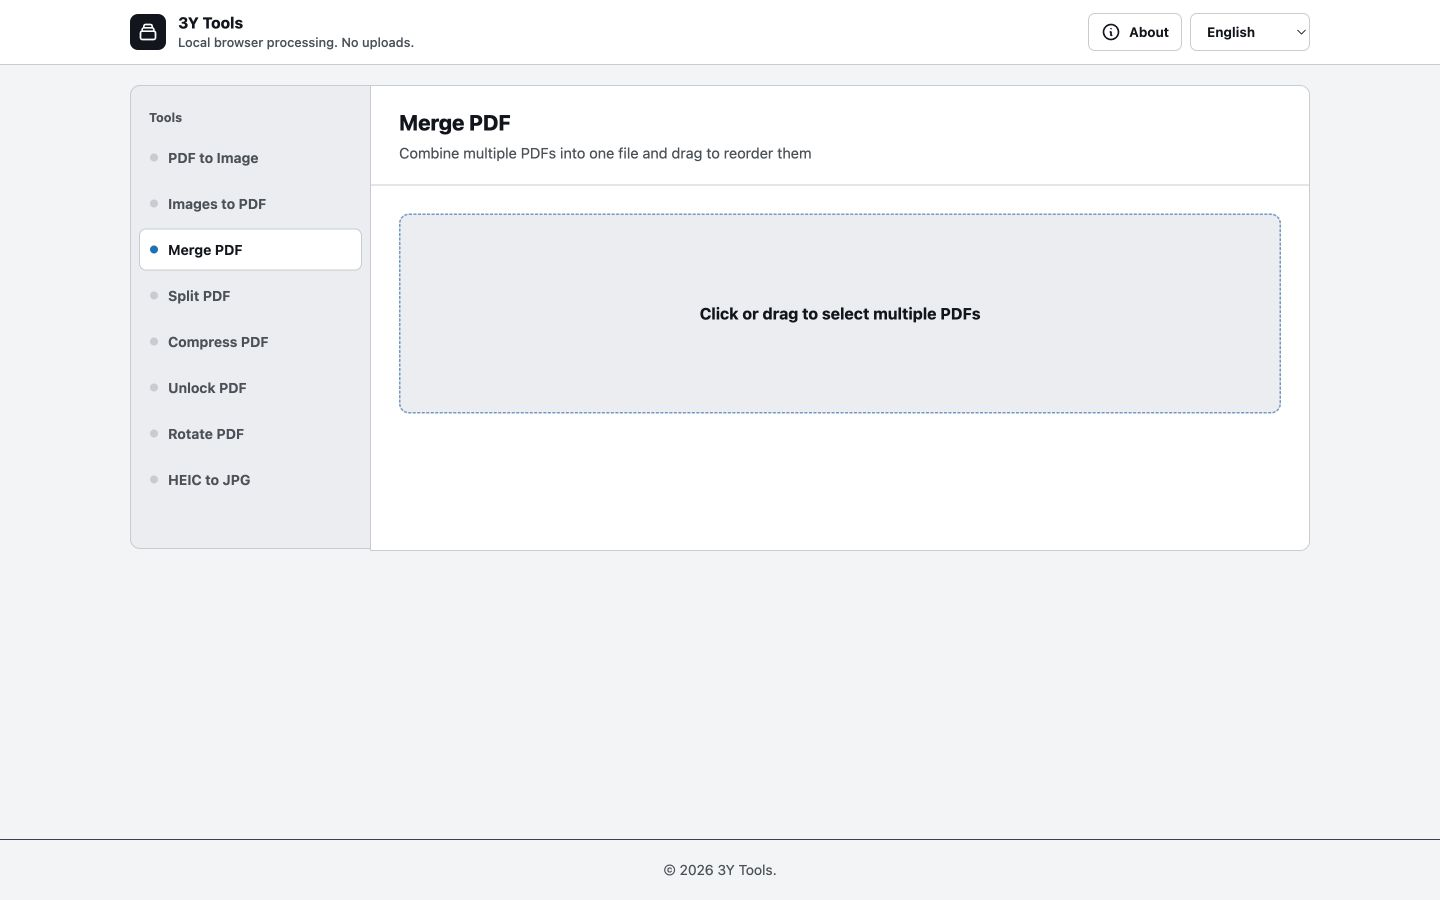
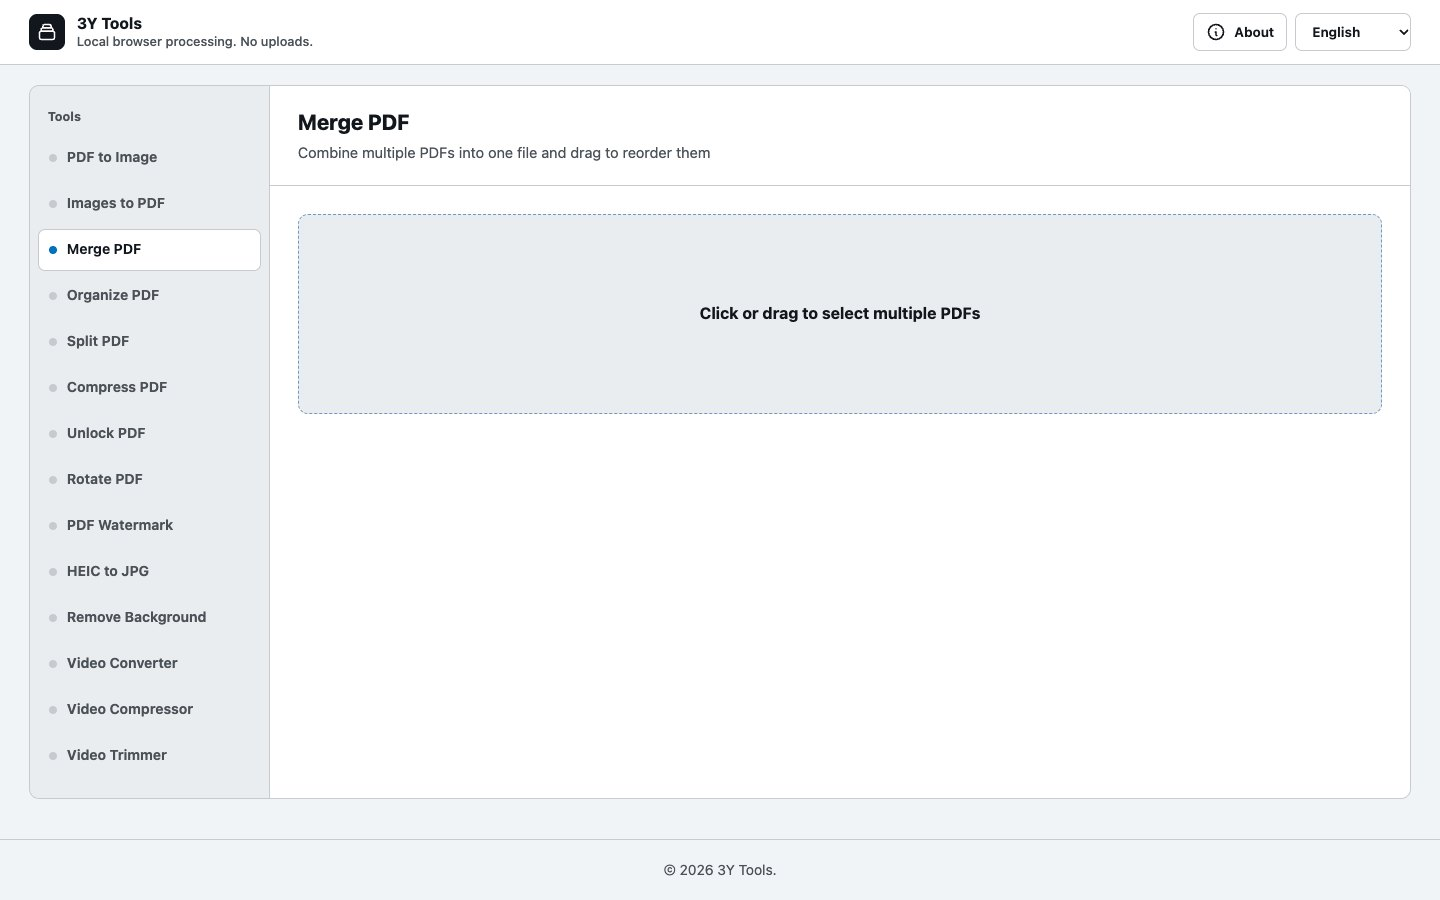
Refresh the Traditional Chinese, English, and Japanese READMEs (#13)

diff --git a/README.en.md b/README.en.md
@@ -14,6 +14,8 @@
   <img alt="Three languages" src="https://img.shields.io/badge/UI-ZH・EN・JA-7c3aed">
 </p>
 
+**[Open 3Y Toolbox](https://yenyuy.github.io/YYPDFTools/)** · Use it in your browser without installing anything.
+
 ![3Y Toolbox English desktop home screen](docs/images/yyypdftools-desktop-en.jpg)
 
 ## Overview
@@ -29,12 +31,12 @@ It works well for quick everyday document tasks and can be deployed as a static 
 | PDF to Image | Converts every PDF page to JPG or PNG | Images or ZIP |
 | Images to PDF | Combines multiple JPG/PNG images into one document | PDF |
 | Merge PDF | Combines PDFs with drag-to-reorder support | PDF |
-| Organize PDF | Thumbnail previews, drag-to-reorder, and page deletion; move or delete directly in the enlarged preview, with undo and reset | PDF |
+| Organize PDF | Preview, reorder, or delete pages, with options to undo edits or restore the original pages | PDF |
 | Split PDF | Simple two-part or page-by-page splitting, plus page previews and custom multi-range outputs | PDF or ZIP |
 | Compress PDF | Rasterizes pages and rebuilds the PDF at a selected image quality | PDF |
 | Unlock PDF | Uses a known password to rebuild an unprotected PDF | PDF |
-| Rotate PDF | Rotates every page clockwise by 90°, 180°, or 270° | PDF |
-| Watermark PDF | Customizes text, font, size, color, opacity, and angle, with single-position or repeated layouts, live page previews, and black rectangles or brushes for manual redaction | PDF |
+| Rotate PDF | Preview rotation page by page and rotate every page clockwise by 90°, 180°, or 270° | PDF |
+| PDF Watermark | Customize the text style, angle, and layout, preview page by page, apply to all or selected pages, and redact content using black rectangles or a brush | PDF |
 | HEIC to JPG | Converts one or more HEIC/HEIF photos to JPG | JPG |
 | Remove Background | Runs local AI removal, then provides erase and restore brushes for refinement | Transparent PNG |
 | Video Converter | Converts video to MP4, WebM, MOV, MKV, AVI, TS, GIF, or common audio formats | Video, GIF, or audio |
@@ -58,7 +60,7 @@ Interface highlights:
 
 All file content is processed in the current browser tab. The project has no upload API and requires no account.
 
-The page loads its frontend libraries from CDNs on first visit, so an internet connection is still required for the initial load. Once those resources are loaded, document processing itself is local. For a fully offline build, download the CDN dependencies listed below and replace their URLs with local paths.
+The first visit uses an internet connection to load frontend libraries from CDNs. An offline deployment also needs local copies of the assets loaded on demand, including the PDF.js worker, the background removal model, and the FFmpeg WebAssembly core.
 
 The background removal tool downloads an AI model of about 40 MB on first use. The browser caches the model, and the image itself is never sent to the model host or another server.
 
@@ -69,12 +71,24 @@ The video tools download an FFmpeg WebAssembly core of about 32 MB on the first 
 
 ## How to Use
 
-1. Open the toolbox and choose a tool from the navigation bar.
-2. Click the upload area or drag files onto it.
+1. Open the toolbox and pick a tool from the tools menu.
+2. Click the file selection area or drag files onto it.
 3. Configure the format, page range, image quality, password, or rotation angle when applicable.
-4. Start processing; preview the result when the browser supports its format, then download it.
+4. Start processing. When it finishes, download the result. The browser also previews supported formats.
 
-In **Organize PDF**, drag thumbnails to reorder pages, or use the move buttons with touch or a keyboard. Select a thumbnail to show a larger inline page preview, then choose **Enlarge preview** to open the preview dialog. Both previews let you move or delete that page directly. Undo reverses edits, reset restores the original pages, and at least one page must remain. Download copies the pages locally in their current order, preserves the original selectable and searchable text, and saves a new `organized_<original-name>.pdf` file.
+### Organize PDF
+
+1. Drag thumbnails to reorder pages, or use **Move earlier** and **Move later** with touch or a keyboard.
+2. Select a thumbnail to preview the page, or choose **Enlarge preview** to open the dialog. You can move or delete the current page in either preview.
+3. Use **Undo** or **Restore original pages** to revise your edits. Keep at least one page.
+4. Choose **Download edited PDF** to save a new copy in the current page order. For example, `report.pdf` becomes `organized_report.pdf`. Existing selectable text remains selectable and searchable.
+
+### Split and rotate PDFs
+
+- In **Split PDF**, use Advanced mode and its thumbnails to confirm the page range for each output PDF. Ranges must not overlap. Only assigned pages are exported. Multiple PDFs download as a ZIP archive.
+- In **Rotate PDF**, choose 90°, 180°, or 270° clockwise and switch between pages to inspect the result. Downloading applies the selected angle to the entire PDF.
+
+### Background removal and watermark editors
 
 The background removal and PDF watermark editors can expand or collapse; press Esc to leave the expanded view. Fit-to-window is 100%: use +/− or Ctrl/⌘ and the mouse wheel to zoom between 50% and 800%, and drag in Browse/Hand mode to pan. Zooming and panning do not change output dimensions or redaction positions.
 
@@ -82,27 +96,19 @@ The PDF editor uses a compact floating toolbar on the left, with brush width and
 
 For repeated watermarks, spacing from 0–240 pt controls pattern density. Angled patterns repeat along the text direction and extend to page edges, where some letters may be cropped. Preview and export use the same layout.
 
-Everything happens on the current device. Large or high-resolution documents may take more time and memory depending on device performance, page count, and image dimensions.
-
-## Use Online
-
-No download or installation is required. Open the hosted version and start using it immediately:
-
-### [Open 3Y Toolbox →](https://yenyuy.github.io/YYPDFTools/)
-
-Your PDFs, images, and videos still remain on your device and are processed locally by the browser. They are never uploaded to a server.
-
 ## Technology
 
 - HTML, CSS, and vanilla JavaScript
 - [Tailwind CSS](https://tailwindcss.com/) via CDN
 - [PDF.js](https://mozilla.github.io/pdf.js/) for reading and rendering PDF pages
-- [pdf-lib](https://pdf-lib.js.org/) for creating, merging, splitting, and rotating PDFs
+- [pdf-lib](https://pdf-lib.js.org/) for creating PDFs and merging, splitting, rotating, or reordering their pages
 - [JSZip](https://stuk.github.io/jszip/) for multi-file archives
 - [FileSaver.js](https://github.com/eligrey/FileSaver.js/) for saving generated files
 - [heic-to](https://github.com/hoppergee/heic-to) for HEIC/HEIF conversion
 - [IMG.LY background-removal](https://github.com/imgly/background-removal-js) for in-browser ONNX Runtime Web and WebAssembly background removal (AGPL-3.0)
 - [ffmpeg.wasm](https://github.com/ffmpegwasm/ffmpeg.wasm) for in-browser video conversion, compression, and trimming
+
+Licenses and upstream source code are listed in the [third-party notices](THIRD_PARTY_NOTICES.md).
 
 ## Project Structure
 
@@ -112,6 +118,10 @@ YYPDFTools/
 ├── canvas-view-core.js        # Shared preview fit, zoom, and pan helpers
 ├── editor-focus.js            # Shared editor expand and collapse behavior
 ├── editor-focus.css           # Expanded editor styles
+├── pdf-split.js               # PDF split interface, thumbnails, and export
+├── pdf-split-core.js          # Page range validation and grouping
+├── pdf-rotate.js              # PDF rotation, live preview, and export
+├── pdf-rotate.css             # PDF rotation workspace styles
 ├── pdf-watermark.js           # PDF watermark controller and live preview
 ├── pdf-watermark-core.js      # Watermark settings, layout, and PDF geometry helpers
 ├── pdf-organize.js            # PDF page management, thumbnails, and enlarged preview
@@ -140,7 +150,7 @@ YYPDFTools/
 ## Browser Requirements and Limitations
 
 - The latest Chrome, Edge, Firefox, or Safari is recommended.
-- Large PDFs can consume significant memory. If the browser tab is terminated, process fewer pages or split the work into batches.
+- Large or high-resolution PDFs can consume significant memory. If the browser closes the tab, process fewer pages or work in smaller batches.
 - Encrypted PDF support depends on PDF.js; some encryption methods cannot be unlocked in the browser.
 - Rasterized compression is most useful for scanned PDFs and may not reduce text-heavy documents.
 - HEIC support depends on browser and decoder compatibility.
@@ -151,6 +161,12 @@ YYPDFTools/
 ## Contributing
 
 Issues and pull requests are welcome. When changing features, please verify all three languages, light and dark themes, keyboard behavior, and both desktop and mobile layouts.
+
+Run the tests from the project directory with Node.js 22 or later.
+
+```sh
+node --test tests/*.test.mjs
+```
 
 ---
 
